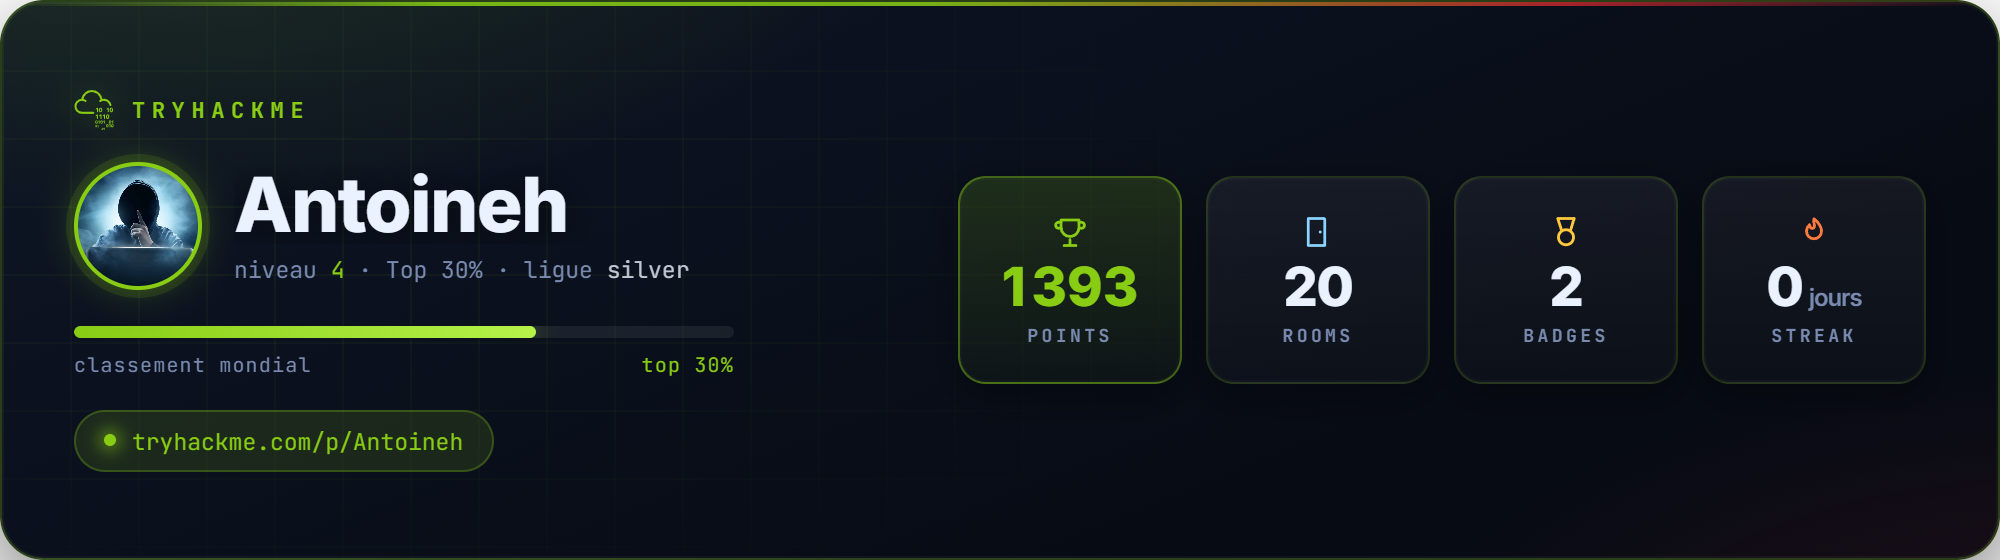
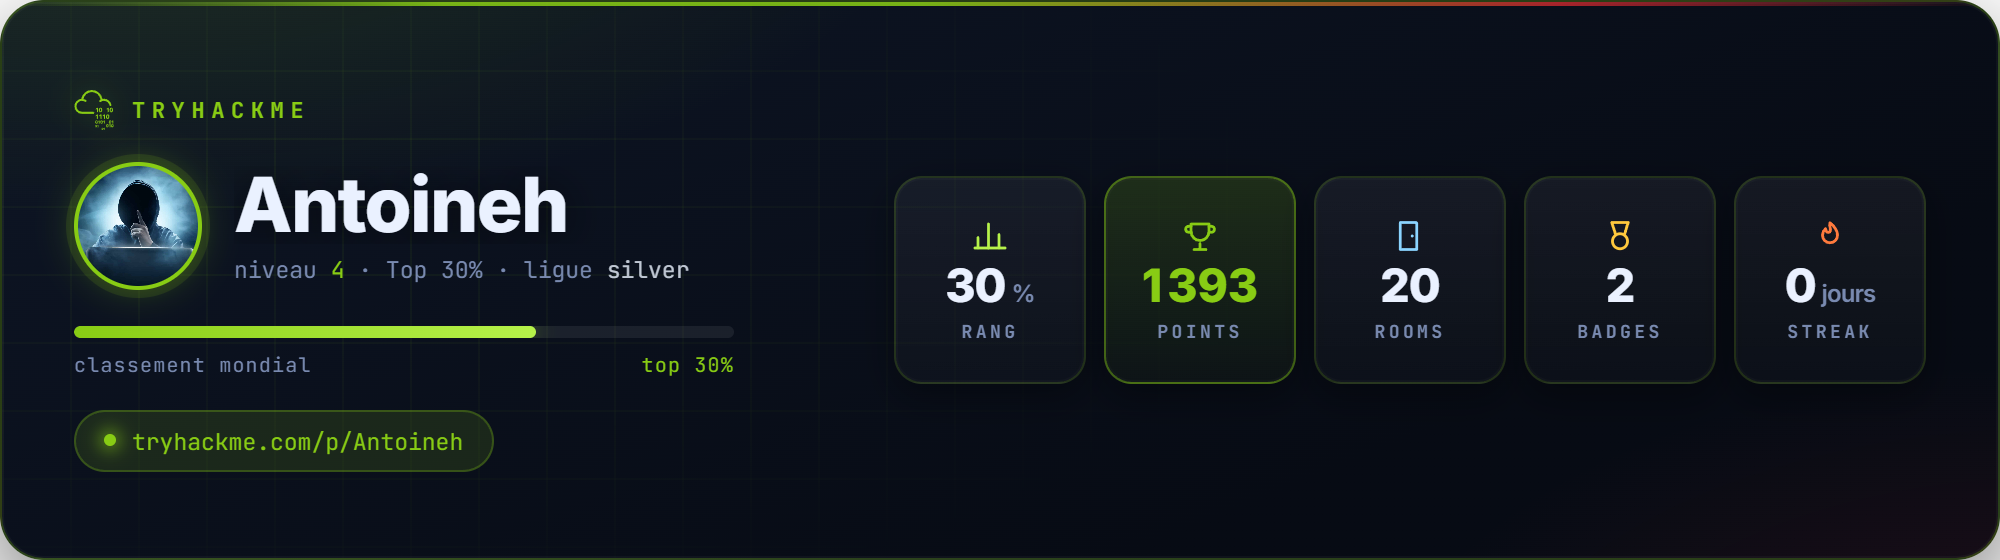
feat: ajoute une tuile RANG sur la carte TryHackMe
Le rang etait deja affiche en petit texte au-dessus de la barre de
classement mais pas visible en tant que tuile ; ajoute une 5e tuile
au meme format que points/rooms/badges/streak.

diff --git a/assets/thm/card.html b/assets/thm/card.html
@@ -119,10 +119,10 @@
             box-shadow:0 0 9px 2px rgba(136,204,20,.75);flex:none}
 
   /* ---------------- tuiles de stats ---------------- */
-  .stats{position:relative;z-index:2;flex:none;display:flex;gap:12px}
+  .stats{position:relative;z-index:2;flex:none;display:flex;gap:9px}
 
   .tile{
-    width:112px;height:104px;border-radius:14px;
+    width:96px;height:104px;border-radius:14px;
     background:linear-gradient(180deg,rgba(255,255,255,.055),rgba(255,255,255,.02));
     border:1px solid rgba(136,204,20,.17);
     box-shadow:0 6px 18px rgba(0,0,0,.34), 0 0 0 1px rgba(255,255,255,.02) inset;
@@ -135,7 +135,7 @@
     width:18px;height:18px;fill:none;stroke:currentColor;
     stroke-width:1.9;stroke-linecap:round;stroke-linejoin:round;
   }
-  .tile .val{font-size:27px;font-weight:800;color:var(--txt);line-height:1;letter-spacing:-.02em}
+  .tile .val{font-size:23px;font-weight:800;color:var(--txt);line-height:1;letter-spacing:-.02em}
   .tile .val small{font-size:12px;font-weight:600;color:var(--mut);margin-left:3px}
   .tile .lab{
     font-family:var(--mono);font-size:9px;font-weight:700;
@@ -192,7 +192,8 @@
     door:   svg('<path d="M5.5 3h10a1 1 0 0 1 1 1v17h-11z"/><path d="M13.5 12h.01"/>'),
     medal:  svg('<circle cx="12" cy="15.5" r="5"/><path d="M9 10.8 6.5 3h11L15 10.8"/>'),
     flame:  svg('<path d="M12 3.2c3.2 2.6 5 5.4 5 8.3a5 5 0 0 1-10 0c0-1.9.9-3.4 2-4.4'
-              + '.1 1.5 1 2.5 2 2.5 1.2 0 1.6-1.2 1.1-3-.4-1.4-.4-2.5-.1-3.4z"/>')
+              + '.1 1.5 1 2.5 2 2.5 1.2 0 1.6-1.2 1.1-3-.4-1.4-.4-2.5-.1-3.4z"/>'),
+    rank:   svg('<path d="M4 20V13M11 20V4M18 20v-9"/><path d="M2 20h20"/>')
   };
 
   window.render = function (d, avatarDataUri) {
@@ -222,12 +223,16 @@
     }
 
     var jour = d.streak === 1 ? 'jour' : 'jours';
-    var tiles = [
+    var tiles = [];
+    if (top !== null) {
+      tiles.push({ ico:ICONS.rank, tint:'#b6f24a', lab:'rang', val:top + '<small>%</small>' });
+    }
+    tiles.push(
       { ico:ICONS.trophy, tint:'#88cc14', lab:'points', val:fr(d.totalPoints), hero:true },
       { ico:ICONS.door,   tint:'#8ad4ff', lab:'rooms',  val:fr(d.completedRoomsNumber) },
       { ico:ICONS.medal,  tint:'#ffc83d', lab:'badges', val:fr(d.badgesNumber) },
       { ico:ICONS.flame,  tint:'#ff7a3d', lab:'streak', val:fr(d.streak) + '<small>' + jour + '</small>' }
-    ];
+    );
     document.getElementById('stats').innerHTML = tiles.map(function (t) {
       return '<div class="tile' + (t.hero ? ' hero' : '') + '">'
            +   '<div class="ico" style="color:' + t.tint + '">' + t.ico + '</div>'

diff --git a/README.md b/README.md
@@ -1,7 +1,7 @@
 <p align="center">
   <a href="https://tryhackme.com/p/Antoineh">
     <img
-      src="https://raw.githubusercontent.com/Heidet/Heidet/main/assets/tryhackme-card.png?v=20260827074837"
+      src="https://raw.githubusercontent.com/Heidet/Heidet/main/assets/tryhackme-card.png?v=20260827075201"
       alt="Profil TryHackMe d'Antoineh : niveau, points, rooms, badges et streak"
       width="820" />
   </a>
